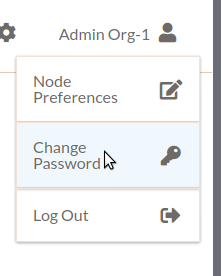
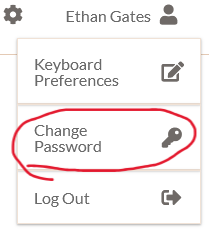
update node/keyboard preferences
documentation was out-of-date regarding where and how to change keyboard preferences in the EaaSI UI

Changed region(s): [[0.0, 0.0, 1.0, 1.0], [0.1435, 0.2333, 0.5742, 0.3792]]

diff --git a/source/guide/logging-in.rst b/source/guide/logging-in.rst
@@ -56,3 +56,17 @@ Clicking on "Change Password" will take the user to EaaSI's `Keycloak <https://w
 .. image:: ../images/update_password.png
 
 Hosted service users also have the option to set up a third-party Two-Factor Authentication application on this page for extra security, if desired.
+
+
+Keyboard Preferences
+----------------------
+
+Each individual user may set the layout and language of the keyboard of the keyboard they are currently using when logged into the EaaSI UI. This is necessary to help map user input (keyboard presses) to a running Environment. These settings default to a generic 105-key PC keyboard layout and English (US).
+
+To change these settings, users can click on the user icon at the top right of the EaaSI menu, select "Keyboard Preferences", then use the dropdown menus in the Keyboard Preferences modal to select the most appropriate option matching their hardware.
+
+.. image:: ../images/keyboard_preferences.png
+  :align: center
+
+.. image:: ../images/keyboard_modal.png
+  :align: center

diff --git a/source/guide/administration.rst b/source/guide/administration.rst
@@ -145,13 +145,6 @@ etc)
 
 .. image:: ../images/running_tasks.png
 
-Node Preferences
-------------------
-
-Under Node Preferences, Admin users may set the local keyboard layout and language for their node. This is necessary to map user input (keyboard presses) to a running Environment.
-
-The EaaSI UI itself is currently only available in English (US).
-
 Install & Updates
 -------------------
 
